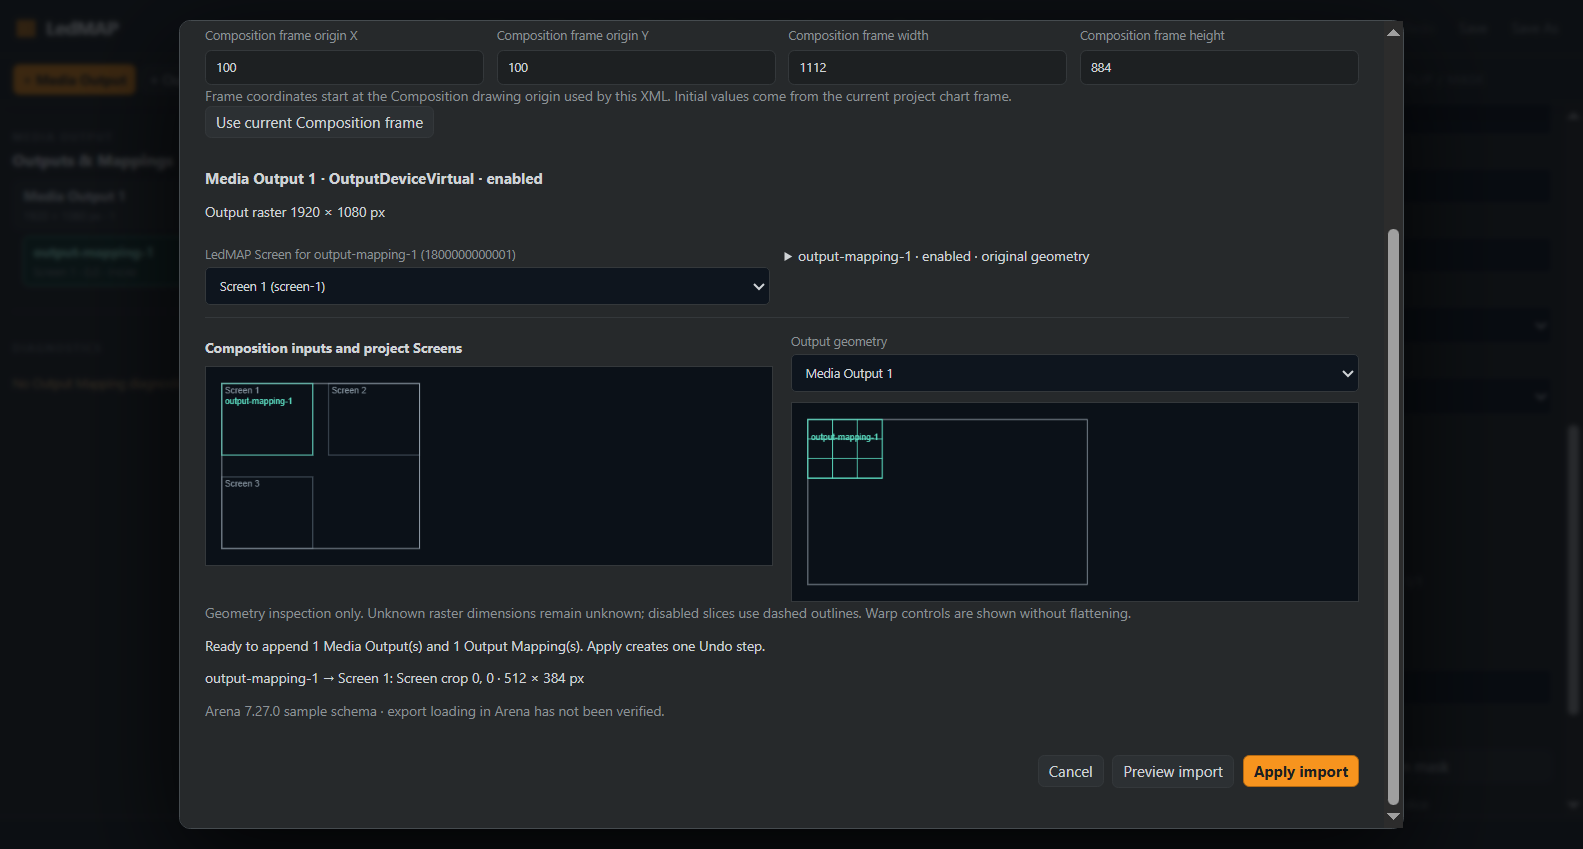
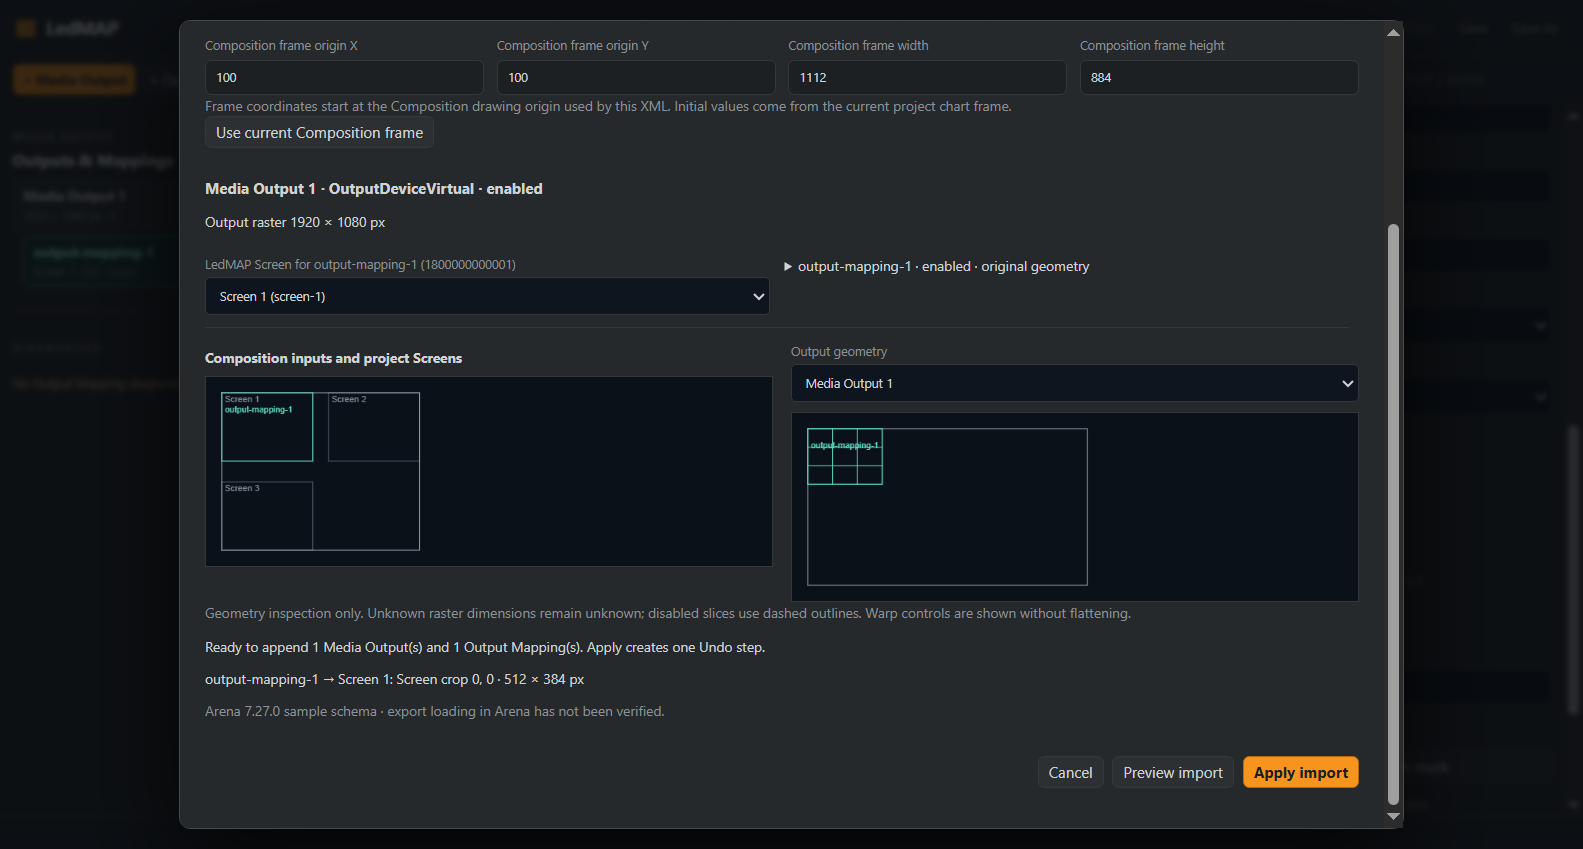
fix(resolume): await import dialog and preserve preview aspect ratio

diff --git a/packages/app/src/renderer/style.css b/packages/app/src/renderer/style.css
@@ -178,7 +178,7 @@ dialog::backdrop { background: #06090dc7; backdrop-filter: blur(2px); }
 .resolume-import-geometry { display: grid; grid-template-columns: 1fr 1fr; gap: 14px; }
 .resolume-import-geometry section { min-width: 0; }
 .resolume-import-geometry h3 { font-size: 11px; margin: 4px 0 8px; }
-.resolume-import-geometry canvas { position: static; inset: auto; display: block; width: 100%; height: 160px; margin-top: 8px; border: 1px solid var(--line); }
+.resolume-import-geometry canvas { position: static; inset: auto; display: block; width: 100%; height: auto; margin-top: 8px; border: 1px solid var(--line); }
 .resolume-import-result, .resolume-import-diagnostics { max-height: 110px; overflow: auto; }
 .resolume-import-body .dialog-actions { position: sticky; bottom: 0; background: #26292b; padding: 12px 0; }
 @media (max-width: 700px) { .resolume-import-frame, .resolume-import-geometry, .resolume-import-binding { grid-template-columns: 1fr; } }

diff --git a/docs/reviews/RESOLUME-IMPORT-UI-2026-10-06.md b/docs/reviews/RESOLUME-IMPORT-UI-2026-10-06.md
@@ -26,11 +26,13 @@ New app shared coordinator: `resolume-import-session.ts`; renderer/file/Canvas f
 
 The dialog/controller and XML parser load dynamically on first open. Leaving the workspace invalidates a pending load request. Late File reads are guarded against newer selections, closure and reopen. Names and diagnostics use textContent; no imported HTML or script is executed. Existing XML byte/markup/element/depth/attribute, DTD/entity, strict-number and warp limits apply.
 
-Final self-review corrected global editor Canvas positioning leaking into the dialog, kept actions visible during scrolling, replaced a quadratic lattice column scan with a linear walk, limited displayed diagnostics/text and preserved special source ID raster overrides. The same external-source fixture/provenance and complete MIT notices from P0-3 remain intact. No new external code/asset/dataset/UI expression is transferred; B.L.I.N.K copied = NO.
+Final self-review corrected global editor Canvas positioning leaking into the dialog, kept actions visible during scrolling, preserved the Canvas buffer's 3:1 aspect ratio across viewport widths, replaced a quadratic lattice column scan with a linear walk, limited displayed diagnostics/text and preserved special source ID raster overrides. The same external-source fixture/provenance and complete MIT notices from P0-3 remain intact. No new external code/asset/dataset/UI expression is transferred; B.L.I.N.K copied = NO.
 
 ## Verification
 
 All local gates passed on the final implementation. Exact-head PR CI must pass before ready-for-review.
+
+The first PR #19 [CI run 37482245379](https://github.com/SystemDesignInstall/ledmap/actions/runs/37482245379) passed tests, typecheck, lint, build, license and advisory gates, then timed out at the first import inspection in Linux smoke. The test selected a file through a hidden input before the dynamically loaded dialog installed its handlers and opened. Every test open now waits for the visible modal before choosing a file, preserving all import assertions and production loading behavior. The corrective also preserves the Canvas buffer aspect ratio and refreshes all three screenshots. A fresh exact-head CI run is required.
 
 | Gate | Evidence |
 |---|---|
